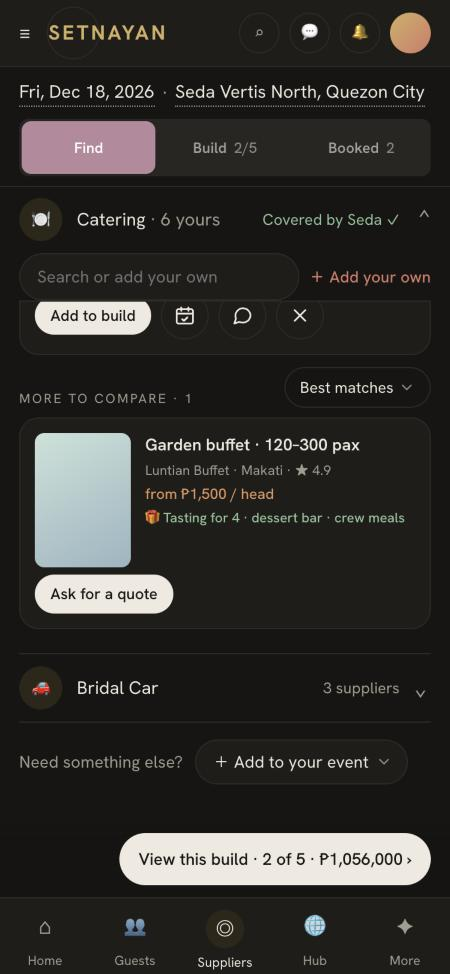
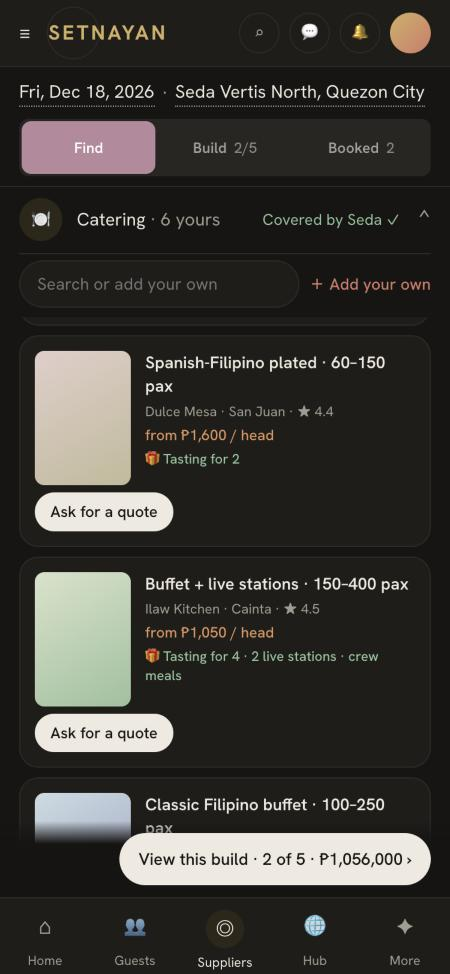
design: Suppliers prototype — the search/add field belongs to More to compare: it sits after the shortlist and pins under the category row only once you scroll past

diff --git a/prototypes/suppliers_page_2026-10-07_fable.html b/prototypes/suppliers_page_2026-10-07_fable.html
@@ -90,7 +90,7 @@ main{overflow-x:clip}
 .next .go{margin-left:auto;color:var(--wine);font-weight:500;white-space:nowrap}
 .rowbtn{display:contents}
 .exp{display:grid;grid-template-rows:0fr;transition:grid-template-rows var(--t) var(--ease)}
-.exp>div{overflow:hidden}
+.exp>div{overflow:clip}
 .open>.exp{grid-template-rows:1fr}
 .chev{transition:transform var(--t) var(--ease);color:var(--mute);font-size:18px;line-height:1}
 .open .chev{transform:rotate(180deg)}
@@ -341,7 +341,7 @@ html.tour-on .tour{display:block}
 .eyebrow{font-size:12px;letter-spacing:.1em;text-transform:uppercase;color:var(--mute);margin:0 0 4px}
 .eyebrow button{color:var(--ink)}
 .k2{font-size:11px;letter-spacing:.14em;text-transform:uppercase;color:var(--mute);margin:16px 0 2px}
-.addown{display:flex;gap:8px;align-items:center;margin:0 0 8px}
+.addown{display:flex;gap:8px;align-items:center;margin:0 0 8px;position:sticky;top:calc(var(--stick-h,150px) + var(--bar-h,56px));z-index:2;background:var(--paper);padding:6px 0 8px}
 .addown .catsearch{flex:1;min-width:0;border:1px solid var(--line);border-radius:999px;padding:9px 14px;background:var(--paper-2);font:inherit;font-size:14px;color:inherit}
 .addown button{font-weight:500;font-size:13.5px;white-space:nowrap;max-width:46%;overflow:hidden;text-overflow:ellipsis}
 .findhead{display:flex;align-items:flex-end;gap:10px;margin-top:6px}
@@ -466,7 +466,7 @@ section{padding:18px 0 8px}
   const MARKET={
     reception:[{id:'seda',fit:95,badges:['verified','most_booked','couple_trusted'],svc:'Grand ballroom · up to 300 pax',includes:'Catering · cake · bridal suite · 8 hrs',name:'Seda Vertis North',area:'Quezon City',city:'Quezon City',yrs:9,ev:320,from:1056000,star:4.8,busy:['2027-01-09'],room:'18 × 24 m',addr:'Vertis North, Quezon City',covers:['catering','cake','accommodation']},{id:'blue',name:'Blue Leaf Filipinas',area:'Parañaque',city:'Parañaque',yrs:12,ev:900,from:980000,star:4.7,busy:['2026-12-18'],room:'20 × 30 m'}],
     ceremony:[{id:'santuario',badges:['verified'],svc:'Church ceremony · 3 pm slot',includes:'Choir · coordinator for the rite',name:'Santuario de San Vicente de Paul',area:'Manila',city:'Manila',yrs:30,ev:2000,from:null,star:4.9,busy:[]},{id:'sanagustin',name:'San Agustin Church',area:'Intramuros',city:'Manila',yrs:60,ev:5000,from:45000,star:4.9,busy:['2026-12-18']}],
-    catering:[{id:'bituin',fit:88,badges:['verified','couple_trusted'],svc:'Wedding buffet · 150–250 pax',includes:'Tasting for 4 · crew meals · 2 live stations',notIncluded:'corkage',name:'Bituin Catering',area:'Quezon City',yrs:5,ev:80,from:950,per:'head',star:4.7,busy:[],covers:['cake','mobilebar']},{id:'hiraya',fit:76,badges:['verified'],svc:'Plated dinner · 100–200 pax',includes:'Tasting for 2 · table styling',name:'Hiraya Table',area:'Quezon City',yrs:6,ev:40,from:1200,per:'head',star:4.8,busy:[]},{id:'mesa',fit:60,badges:['verified','new'],svc:'Filipino buffet · up to 200 pax',includes:'Tasting for 2',discount:'Early booking · 10%',name:'Mesa Kusina',area:'Pasig',yrs:3,ev:12,from:850,per:'head',star:4.6,busy:['2026-12-18']},{id:'luntian',fit:81,badges:['verified','most_booked','couple_trusted'],svc:'Garden buffet · 120–300 pax',includes:'Tasting for 4 · dessert bar · crew meals',name:'Luntian Buffet',area:'Makati',yrs:9,ev:120,from:1500,per:'head',star:4.9,busy:[]},{id:'lola',fit:79,badges:['verified','couple_trusted'],svc:'Heirloom Filipino buffet · 100–250 pax',includes:'Tasting for 2 · lechon carving station',name:'Kusina ni Lola',area:'Marikina',yrs:14,ev:410,from:1100,per:'head',star:4.8,busy:[]},{id:'sarap',fit:74,badges:['verified'],svc:'Plated 5-course · 80–180 pax',includes:'Tasting for 2 · wine pairing',name:'Sarap Events',area:'Taguig',yrs:4,ev:60,from:1800,per:'head',star:4.7,busy:[]},{id:'halo',fit:70,badges:['verified','new'],svc:'Modern Asian buffet · up to 200 pax',includes:'Tasting for 2 · dessert bar',name:'Halo Catering',area:'Pasig',yrs:2,ev:18,from:980,per:'head',star:4.5,busy:[]},{id:'tahanan',fit:68,badges:['verified'],svc:'Family-style feast · 100–300 pax',includes:'Tasting for 4 · crew meals',name:'Tahanan Table',area:'Quezon City',yrs:7,ev:95,from:1250,per:'head',star:4.6,busy:[]}],
+    catering:[{id:'bituin',fit:88,badges:['verified','couple_trusted'],svc:'Wedding buffet · 150–250 pax',includes:'Tasting for 4 · crew meals · 2 live stations',notIncluded:'corkage',name:'Bituin Catering',area:'Quezon City',yrs:5,ev:80,from:950,per:'head',star:4.7,busy:[],covers:['cake','mobilebar']},{id:'hiraya',fit:76,badges:['verified'],svc:'Plated dinner · 100–200 pax',includes:'Tasting for 2 · table styling',name:'Hiraya Table',area:'Quezon City',yrs:6,ev:40,from:1200,per:'head',star:4.8,busy:[]},{id:'mesa',fit:60,badges:['verified','new'],svc:'Filipino buffet · up to 200 pax',includes:'Tasting for 2',discount:'Early booking · 10%',name:'Mesa Kusina',area:'Pasig',yrs:3,ev:12,from:850,per:'head',star:4.6,busy:['2026-12-18']},{id:'luntian',fit:81,badges:['verified','most_booked','couple_trusted'],svc:'Garden buffet · 120–300 pax',includes:'Tasting for 4 · dessert bar · crew meals',name:'Luntian Buffet',area:'Makati',yrs:9,ev:120,from:1500,per:'head',star:4.9,busy:[]},{id:'lola',fit:79,badges:['verified','couple_trusted'],svc:'Heirloom Filipino buffet · 100–250 pax',includes:'Tasting for 2 · lechon carving station',name:'Kusina ni Lola',area:'Marikina',yrs:14,ev:410,from:1100,per:'head',star:4.8,busy:[]},{id:'sarap',fit:74,badges:['verified'],svc:'Plated 5-course · 80–180 pax',includes:'Tasting for 2 · wine pairing',name:'Sarap Events',area:'Taguig',yrs:4,ev:60,from:1800,per:'head',star:4.7,busy:[]},{id:'halo',fit:70,badges:['verified','new'],svc:'Modern Asian buffet · up to 200 pax',includes:'Tasting for 2 · dessert bar',name:'Halo Catering',area:'Pasig',yrs:2,ev:18,from:980,per:'head',star:4.5,busy:[]},{id:'tahanan',fit:68,badges:['verified'],svc:'Family-style feast · 100–300 pax',includes:'Tasting for 4 · crew meals',name:'Tahanan Table',area:'Quezon City',yrs:7,ev:95,from:1250,per:'head',star:4.6,busy:[]},{id:'bahay',fit:66,badges:['verified'],svc:'Grazing tables + buffet · 80–200 pax',includes:'Tasting for 2 · grazing table',name:'Bahay Kubo Catering',area:'Antipolo',yrs:6,ev:72,from:1150,per:'head',star:4.6,busy:[]},{id:'dulce',fit:64,badges:['new'],svc:'Spanish-Filipino plated · 60–150 pax',includes:'Tasting for 2',name:'Dulce Mesa',area:'San Juan',yrs:1,ev:9,from:1600,per:'head',star:4.4,busy:[]},{id:'ilaw',fit:61,badges:['verified'],svc:'Buffet + live stations · 150–400 pax',includes:'Tasting for 4 · 2 live stations · crew meals',name:'Ilaw Kitchen',area:'Cainta',yrs:11,ev:260,from:1050,per:'head',star:4.5,busy:[]},{id:'pamana',fit:58,badges:['verified'],svc:'Classic Filipino buffet · 100–250 pax',includes:'Tasting for 2 · crew meals',name:'Pamana Catering',area:'Las Piñas',yrs:9,ev:140,from:950,per:'head',star:4.3,busy:[]}],
     photo:[{id:'lumina',fit:92,eyeing:true,badges:['verified','couple_trusted','top_pick'],svc:'Full day photo & video · 2 shooters',includes:'Same-day edit · 10-day gallery',name:'Lumina Studio',area:'Makati',yrs:8,ev:260,from:85000,star:4.9,busy:[],circle:'Ana & Miguel',covers:['booth']},{id:'kislap',name:'Kislap Films',area:'Makati',yrs:7,ev:210,from:95000,star:4.9,busy:[]},{id:'tala',name:'Tala Studio',area:'Taguig',yrs:4,ev:60,from:60000,star:4.7,busy:['2026-12-18']}],
     coordinator:[{id:'dalisay',name:'Dalisay Events',area:'Quezon City',yrs:10,ev:300,from:45000,star:4.9,busy:[],circle:'Ana & Miguel'},{id:'bukas',name:'Bukas Coordination',area:'Pasig',yrs:2,ev:25,from:28000,star:4.5,busy:[]}],
     cake:[{id:'tinapay',name:'Tinapay & Co.',area:'Quezon City',yrs:5,ev:90,from:12000,star:4.7,busy:[]},{id:'asukal',name:'Asukal Cakes',area:'Makati',yrs:8,ev:300,from:18000,star:4.9,busy:['2026-12-18']},{id:'bibingka',name:'Bibingka Bakehouse',area:'Marikina',yrs:3,ev:40,from:8500,star:4.6,busy:[]}],
@@ -588,15 +588,16 @@ section{padding:18px 0 8px}
           let list=(MARKET[k]||[]).filter(m=>!S.suppliers.some(x=>x.id===m.id)&&availableFor(m)&&hit(m)); const total=list.length;
           if(fl==='best') list=[...list].sort((a,b)=>(b.fit||0)-(a.fit||0)); if(fl==='rated') list=[...list].sort((a,b)=>b.star-a.star); if(fl==='price') list=[...list].sort((a,b)=>(priceOf(a)||9e9)-(priceOf(b)||9e9)); if(fl==='circle') list=list.filter(m=>m.circle); if(fl==='following') list=[];
           const shown=list;
-          const body=!open?'':`<div class="unfold">
-            ${mine.filter(hit).map(x=>srow(x,`<b>${stateOf(x)}</b>${fitLines(x,k)?' · '+fitLines(x,k):''}`,verbs(x,k),x.fresh?'new':'',k)).join('')}
-            ${bookedIn(k)?'':`<div class="findhead"><p class="k2">${mine.length?'More to compare':'To compare'} · ${list.length}</p><div class="sel small">${FL[fl]}<select id="findFilter" aria-label="Filter">${Object.entries(FL).map(([v,t])=>`<option value="${v}" ${v===fl?'selected':''}>${t}</option>`).join('')}</select></div></div>
-            ${shown.map(m=>srow(m,fitLines(Object.assign({status:'saved'},m),k),`<button data-act="ask" data-id="${m.id}" data-cat="${k}">Ask for a quote</button>`,'',k)).join('')}
-            ${!list.length?`<p class="mute" style="font-size:13px;margin:12px 0 4px">${qn0?`Nobody called “${esc((S.catQuery||'').trim())}” here yet — add them as your own above.`:fl==='best'?`Nobody is free ${S.dateKnown==='day'?'on '+shortDate(S.date)+' — try another day in Help me choose':'in '+monthOf(S.date)}.`:'Nobody matches that filter.'}</p>`:''}`}
-            <p class="mute" style="font-size:13px;margin:14px 0 6px">${bookedIn(k)?`<button class="wine" data-act="sheet" data-key="add" data-cat="${k}">＋ Add your own ›</button>`:''}${coveredBy(k)?'':`<button class="mute" data-act="removecat" data-cat="${k}">Not needed? Remove ${c.name} from your event</button>`}</p></div>`;
           const qv=open?(S.catQuery||''):''; const qn=qv.trim().toLowerCase();
           const addown=open&&!bookedIn(k)?`<div class="addown"><input class="catsearch" data-cat="${k}" value="${esc(qv)}" placeholder="Search or add your own" autocomplete="off" aria-label="Search ${c.name} or add your own">${qn?`<button class="wine" data-act="sheet" data-key="add" data-cat="${k}" data-name="${esc(qv.trim())}">＋ Add “${esc(qv.trim())}”</button>`:`<button class="wine" data-act="sheet" data-key="add" data-cat="${k}">＋ Add your own</button>`}</div>`:'';
-          return `<div class="cat ${open?'open':''} ${c.fresh?'new':''}" id="cat-${k}"><div class="cathead"><button class="bar" data-act="opencat" data-cat="${k}"><span class="ico">${c.icon}</span><span>${c.name}${mine.length?` <span class="mute">· ${mine.length} yours</span>`:''}</span><span class="state ${st.cls}">${st.text}</span><span class="chev">⌄</span></button>${addown}</div><div class="exp"><div>${body}</div></div></div>`; }).join('')}
+          const body=!open?'':`<div class="unfold">
+            ${mine.map(x=>srow(x,`<b>${stateOf(x)}</b>${fitLines(x,k)?' · '+fitLines(x,k):''}`,verbs(x,k),x.fresh?'new':'',k)).join('')}
+            ${bookedIn(k)?'':`<div class="findhead"><p class="k2">${mine.length?'More to compare':'To compare'} · ${list.length}</p><div class="sel small">${FL[fl]}<select id="findFilter" aria-label="Filter">${Object.entries(FL).map(([v,t])=>`<option value="${v}" ${v===fl?'selected':''}>${t}</option>`).join('')}</select></div></div>
+            ${addown}
+            ${shown.map(m=>srow(m,fitLines(Object.assign({status:'saved'},m),k),`<button data-act="ask" data-id="${m.id}" data-cat="${k}">Ask for a quote</button>`,'',k)).join('')}
+            ${!list.length?`<p class="mute" style="font-size:13px;margin:12px 0 4px">${qn0?`Nobody called “${esc((S.catQuery||'').trim())}” here yet — add them as your own.`:fl==='best'?`Nobody is free ${S.dateKnown==='day'?'on '+shortDate(S.date)+' — try another day in Help me choose':'in '+monthOf(S.date)}.`:'Nobody matches that filter.'}</p>`:''}`}
+            <p class="mute" style="font-size:13px;margin:14px 0 6px">${bookedIn(k)?`<button class="wine" data-act="sheet" data-key="add" data-cat="${k}">＋ Add your own ›</button>`:''}${coveredBy(k)?'':`<button class="mute" data-act="removecat" data-cat="${k}">Not needed? Remove ${c.name} from your event</button>`}</p></div>`;
+          return `<div class="cat ${open?'open':''} ${c.fresh?'new':''}" id="cat-${k}"><div class="cathead"><button class="bar" data-act="opencat" data-cat="${k}"><span class="ico">${c.icon}</span><span>${c.name}${mine.length?` <span class="mute">· ${mine.length} yours</span>`:''}</span><span class="state ${st.cls}">${st.text}</span><span class="chev">⌄</span></button></div><div class="exp"><div>${body}</div></div></div>`; }).join('')}
         <div class="more"><span class="mute">Need something else?</span><div class="sel">＋ Add to your event<select id="moreCats" aria-label="Add a category to your event"><option value="">＋ Add to your event</option>${GROUPS.map((g,gi)=>{ const inG=CATS.filter(c=>c.g===gi&&!ks.includes(c.key)); return inG.length?`<optgroup label="${g}">${inG.map(c=>`<option value="${c.key}">${c.name}</option>`).join('')}</optgroup>`:''; }).join('')}</select></div></div></section>`;
       lower=(nPicks||filled)?`<button class="pillbtn" data-act="mode" data-mode="build">View this build · ${filled} of ${ks.length} · ${money$('pill',M.bookedSum+M.toBook)} ›</button>`:'';
     }
@@ -646,7 +647,7 @@ section{padding:18px 0 8px}
         <div class="replay"><button data-act="tour">Replay the first-visit tour</button> · <button data-act="reset" data-mode="mid">Reset: mid-planning</button> · <button data-act="reset" data-mode="empty">Reset: start from zero</button></div>`;
       lower='';
     }
-    $('#view').innerHTML=html; $('#lower').innerHTML=lower; if(typeof setStickH==='function') setStickH(); $('#lower').classList.toggle('on',!!lower); document.body.classList.toggle('has-lower',!!lower);
+    $('#view').innerHTML=html; $('#lower').innerHTML=lower; if(typeof setStickH==='function') setStickH(); const oh=document.querySelector('.cat.open>.cathead'); document.documentElement.style.setProperty('--bar-h',(oh?oh.offsetHeight:56)+'px'); $('#lower').classList.toggle('on',!!lower); document.body.classList.toggle('has-lower',!!lower);
     document.querySelectorAll('[data-count]').forEach(el=>count(el,+el.dataset.n));
     count($('#mBooked'),M.bookedSum); count($('#mToBook'),M.toBook); count($('#mBuffer'),BUDGET-M.bookedSum-M.toBook); count($('#mBooked2'),M.bookedSum); count($('#mToBook2'),M.toBook); count($('#mPaid'),M.paidSum); count($('#mBuffer2'),BUDGET-M.bookedSum-M.toBook);
     S.suppliers.forEach(s=>{delete s.fresh;delete s.pop;}); S.builds.forEach(p=>delete p.fresh); S.chats.forEach(c=>delete c.fresh); CATS.forEach(c=>delete c.fresh);
